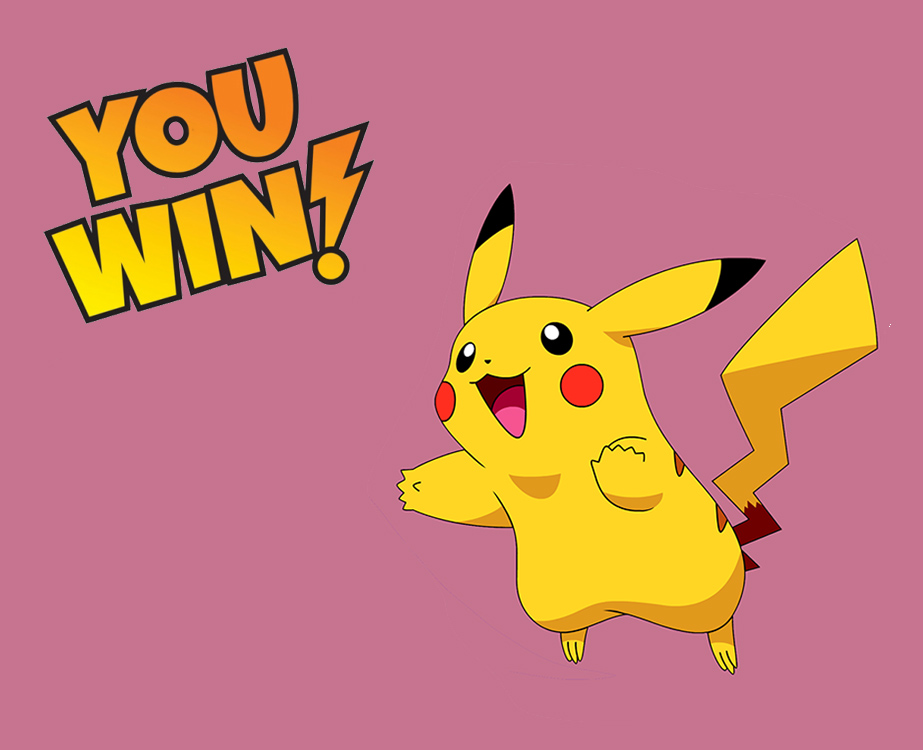
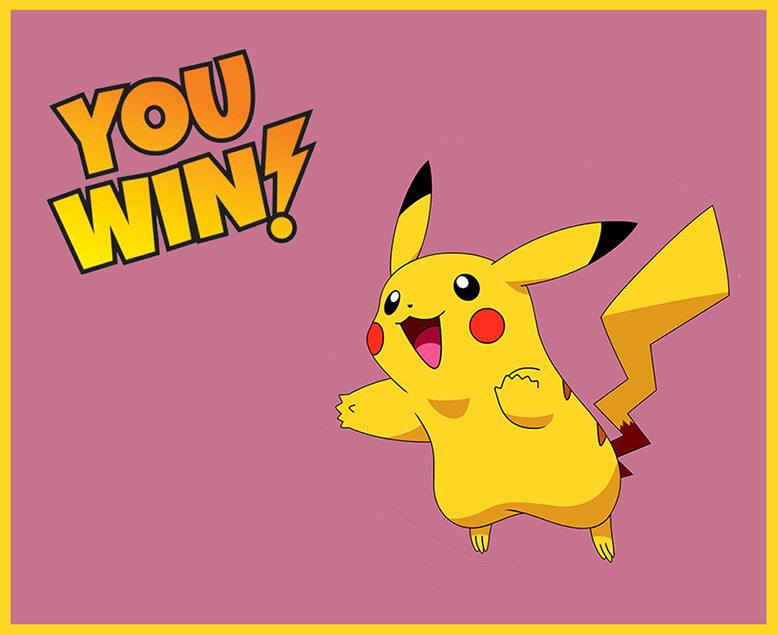
resized and framed welcome,win,lose screens

diff --git a/scripts/app.js b/scripts/app.js
@@ -18,19 +18,19 @@ function init() {
   const wrap = document.querySelector('#wrap')
   const gameOverScreen = document.createElement('div')
   gameOverScreen.id = 'gameOverScreenID'
-  gameOverScreen.width = '750px'
-  gameOverScreen.height = '750px'
+  gameOverScreen.width = '550px'
+  gameOverScreen.height = '450px'
   const pikaSad = document.createElement('img')
   const pikaHappy = document.createElement('img')
   const youWinScreen = document.createElement('div')
   youWinScreen.id = 'youWinScreenID'
-  youWinScreen.width = '750px'
-  youWinScreen.height = '750px'
+  youWinScreen.width = '550px'
+  youWinScreen.height = '450px'
   const welcome = document.createElement('div')
   const pikaWelcome = document.createElement('img')
   welcome.id = 'welcomeID'
-  welcome.width = '750px'
-  welcome.height = '750px'
+  welcome.width = '500px'
+  welcome.height = '400px'
 
 
   // --- code for music --- needs to exist prior to other audio hence positioning
@@ -327,8 +327,8 @@ function init() {
       cells[playerPosition].classList.remove('cookie')
       playerScore += 100
       cookiesRemaining -= 1
-      //winning condition below
-      if (cookiesRemaining === 0){
+      //-----------WINNING CONDITION HERE------------
+      if (cookiesRemaining === 200){
         toggleBGMOff()
         youWinAudio()
         checkHiScore()
@@ -690,7 +690,7 @@ function init() {
   welcomeTotheGame()
   setTimeout(() => {
     wrap.removeChild(welcome)
-  }, 8000)
+  }, 4000)
   stopGame()
 }
 

diff --git a/styles/main.css b/styles/main.css
@@ -326,8 +326,8 @@ align-self:center;
 justify-self: center;
 position:absolute;
 /* margin:45px; */
-width:700px;
-height:550px;
+width:550px;
+height:450px;
 background-image: url('../images/pikachumediumsad.jpg');
 background-color:black;
 background-repeat: no-repeat;
@@ -339,8 +339,8 @@ background-size: cover;
   justify-self: center;
   position:absolute;
   /* margin:45px; */
-  width:700px;
-  height:550px;
+  width:550px;
+  height:450px;
   background-image: url('../images/YOUWIN.jpg');
   background-color:black;
   background-repeat: no-repeat;
@@ -352,8 +352,8 @@ background-size: cover;
     justify-self: center;
     position:absolute;
     /* margin:45px; */
-    width:650px;
-    height:530px;
+    width:500px;
+    height:400px;
     background-image: url('../images/pikamanstarterscreen.png');
     background-color:black;
     background-repeat: no-repeat;
